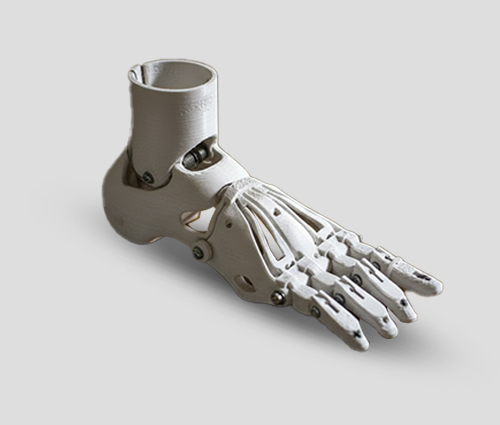
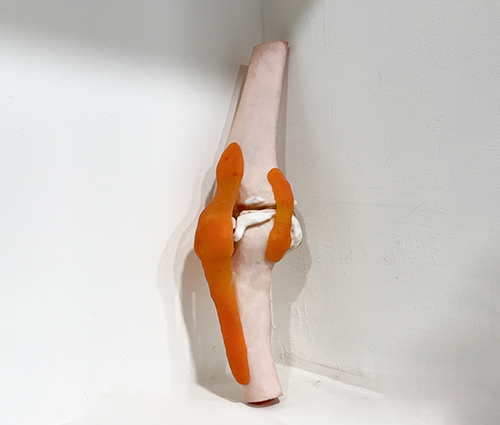
jhk
hjk

diff --git a/pages/index.js b/pages/index.js
@@ -241,7 +241,7 @@ export default function Home() {
 											<h4 class="pbmit-subtitle">Welcome to Curewith3D</h4>
 											<h2 class="pbmit-title">We are</h2>
 											<div class="pbmit-heading-desc">
-												CureWith3D, a healthcare-innovation company focused on creating customized, patient-specific 3D-printed surgical guides, orthopedic & dental implants, and anatomical models. From segmentation and 3D modelling to surgical planning and follow-up support, we help patients understand their path and feel supported every step of the way. Based in India and connected globally, we deliver quality care and cost-effective solutions that make a difference.
+												Curewith3D brings innovation in healthcare with specialized and advanced, patient-specific 3D implants for Orthopaedic, Oral & Maxillofacial, and Neurosurgical surgeries. It delivers fully customized implants, precision-engineered surgical guides, and anatomically accurate 3D-printed models that enhance accuracy from preoperative planning to the final procedure. By combining engineering precision with clinical expertise, Curewith3D enables surgeons to operate with greater confidence, improved accuracy, and reduced intraoperative variability—resulting in safer, faster, and more predictable surgical outcomes.
 											</div>
 										</div>
 										{/* <div class="d-flex list-group-style">
@@ -434,7 +434,7 @@ export default function Home() {
 													<div class="pbmit-service-image-wrapper">
 														<div class="pbmit-featured-img-wrapper">
 															<div class="pbmit-featured-wrapper">
-																<img src="/images/main/patient-specific-implants.jpg" class="img-fluid" alt="" />
+																<a href="/patient-specific-implants"><img src="/images/main/patient-specific-implants.jpg" class="img-fluid" alt="" /></a>
 															</div>
 														</div>
 													</div>
@@ -471,7 +471,7 @@ export default function Home() {
 													<div class="pbmit-service-image-wrapper">
 														<div class="pbmit-featured-img-wrapper">
 															<div class="pbmit-featured-wrapper">
-																<img src="/images/main/custom-surgical-guides.jpg" class="img-fluid" alt="" />
+																<a href="/custom-3d-printed-surgical-guides"><img src="/images/main/custom-surgical-guides.jpg" class="img-fluid" alt="" /></a>
 															</div>
 														</div>
 													</div>
@@ -509,7 +509,7 @@ export default function Home() {
 													<div class="pbmit-service-image-wrapper">
 														<div class="pbmit-featured-img-wrapper">
 															<div class="pbmit-featured-wrapper">
-																<img src="/images/main/virtual-surgery planning.jpg" class="img-fluid" alt="" />
+																<a href="/virtual-surgical-planning"><img src="/images/main/virtual-surgery planning.jpg" class="img-fluid" alt="" /></a>
 															</div>
 														</div>
 													</div>
@@ -546,7 +546,7 @@ export default function Home() {
 													<div class="pbmit-service-image-wrapper">
 														<div class="pbmit-featured-img-wrapper">
 															<div class="pbmit-featured-wrapper">
-																<img src="/images/main/anatomical-models.jpg" class="img-fluid" alt="" />
+																<a href="/3d-surgical-models"><img src="/images/main/anatomical-models.jpg" class="img-fluid" alt="" /></a>
 															</div>
 														</div>
 													</div>

diff --git a/pages/patient-specific-implants.js b/pages/patient-specific-implants.js
@@ -231,7 +231,7 @@ export default function Home() {
 
                                             <div className="col-sm-3">
                                                 <div class="innerbox">
-                                                    <img src="/images/main/service/patient-specific-implants/knee-replacement-implants.jpg" class="img-fluid w-100" alt="Brain Anatomy Model"/>
+                                                    <img src="/images/main/service/patient-specific-implants/Pelvic-Implant.jpg" class="img-fluid w-100" alt="Brain Anatomy Model"/>
                                                     <h5>Pelvis Implant</h5>
                                                 </div>
                                             </div>
@@ -248,18 +248,16 @@ export default function Home() {
                                                 </div>
                                             </div>
                                            
-                                          
-                                   
-											
+                                        
 											<div className="col-sm-3">
                                                 <div class="innerbox">
-                                                    <img src="images/main/service/3d-surgical-models/brain-anatomy-model.jpg" class="img-fluid w-100" alt="Brain Anatomy Model"/>
+                                                    <img src="images/main/service/patient-specific-implants/BSSO.jpg" class="img-fluid w-100" alt="Brain Anatomy Model"/>
                                                     <h5>SSO / BSSO implant</h5>
                                                 </div>
                                             </div>
                                           <div className="col-sm-3">
                                                 <div class="innerbox">
-                                                    <img src="/images/main/service/patient-specific-implants/hip-replacement-implants.jpg" class="img-fluid w-100" alt="Brain Anatomy Model"/>
+                                                    <img src="/images/main/service/patient-specific-implants/Spinal-Cage.jpg" class="img-fluid w-100" alt="Brain Anatomy Model"/>
                                                     <h5>Spinal Cage</h5>
                                                 </div>
                                             </div>
@@ -267,7 +265,7 @@ export default function Home() {
 											
                                             <div className="col-sm-3">
                                                 <div class="innerbox">
-                                                    <img src="/images/main/service/patient-specific-implants/vertebral-implants.jpg" class="img-fluid w-100" alt="Brain Anatomy Model"/>
+                                                    <img src="/images/main/service/patient-specific-implants/Tibia.jpg" class="img-fluid w-100" alt="Brain Anatomy Model"/>
                                                     <h5>Custom Tibia Implant</h5>
                                                 </div>
                                             </div>

diff --git a/pages/about-us.js b/pages/about-us.js
@@ -355,7 +355,7 @@ arrow:true,
 													<div class="pbmit-service-image-wrapper">
 														<div class="pbmit-featured-img-wrapper">
 															<div class="pbmit-featured-wrapper">
-																<img src="/images/main/patient-specific-implants.jpg" class="img-fluid" alt="" />
+																<a href="/patient-specific-implants"><img src="/images/main/patient-specific-implants.jpg" class="img-fluid" alt="" /></a>
 															</div>
 														</div>
 													</div>
@@ -392,7 +392,7 @@ arrow:true,
 													<div class="pbmit-service-image-wrapper">
 														<div class="pbmit-featured-img-wrapper">
 															<div class="pbmit-featured-wrapper">
-																<img src="/images/main/custom-surgical-guides.jpg" class="img-fluid" alt="" />
+																<a href="/custom-3d-printed-surgical-guides"><img src="/images/main/custom-surgical-guides.jpg" class="img-fluid" alt="" /></a>
 															</div>
 														</div>
 													</div>
@@ -430,7 +430,7 @@ arrow:true,
 													<div class="pbmit-service-image-wrapper">
 														<div class="pbmit-featured-img-wrapper">
 															<div class="pbmit-featured-wrapper">
-																<img src="/images/main/virtual-surgery planning.jpg" class="img-fluid" alt="" />
+																<a href="/virtual-surgical-planning"><img src="/images/main/virtual-surgery planning.jpg" class="img-fluid" alt="" /></a>
 															</div>
 														</div>
 													</div>
@@ -467,7 +467,7 @@ arrow:true,
 													<div class="pbmit-service-image-wrapper">
 														<div class="pbmit-featured-img-wrapper">
 															<div class="pbmit-featured-wrapper">
-																<img src="/images/main/anatomical-models.jpg" class="img-fluid" alt="" />
+																<a href="/3d-surgical-models"><img src="/images/main/anatomical-models.jpg" class="img-fluid" alt="" /></a>
 															</div>
 														</div>
 													</div>
@@ -495,7 +495,7 @@ arrow:true,
 												</div>
 											</div>
 										</div>
-									</article>							
+									</article>
 								</Slider>
 							</div>
 						</div>

diff --git a/pages/3d-surgical-models.js b/pages/3d-surgical-models.js
@@ -164,7 +164,7 @@ export default function Home() {
                                             </div>
                                             <div className="col-sm-3">
                                                 <div class="innerbox">
-                                                    <img src="images/main/service/3d-surgical-models/all/lung-anatomy-model.jpg" class="img-fluid w-100" alt="Brain Anatomy Model"/>
+                                                    <img src="images/main/service/3d-surgical-models/all/Lung.jpg" class="img-fluid w-100" alt="Brain Anatomy Model"/>
                                                     <h5>Lung Anatomy Model </h5>
                                                 </div>
                                             </div>
@@ -218,7 +218,7 @@ export default function Home() {
                                             </div>
                                             <div className="col-sm-3">
                                                 <div class="innerbox">
-                                                    <img src="/images/main/service/3d-surgical-models/all/3d-model-of-knee-joint.jpg" class="img-fluid w-100" alt="Brain Anatomy Model"/>
+                                                    <img src="/images/main/service/3d-surgical-models/all/3D-Model-of-Knee-Joint.jpg" class="img-fluid w-100" alt="Brain Anatomy Model"/>
                                                     <h5>3D Model of Knee Joint</h5>
                                                 </div>
                                             </div>
